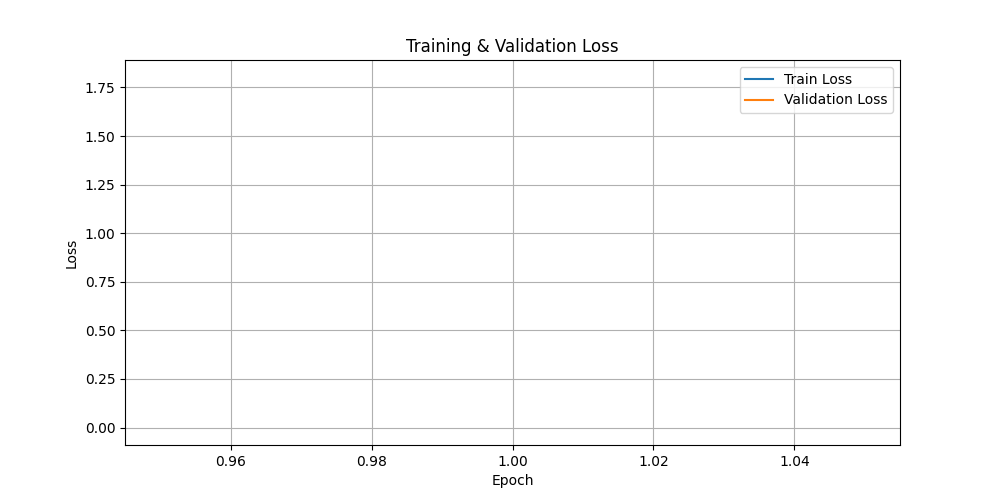
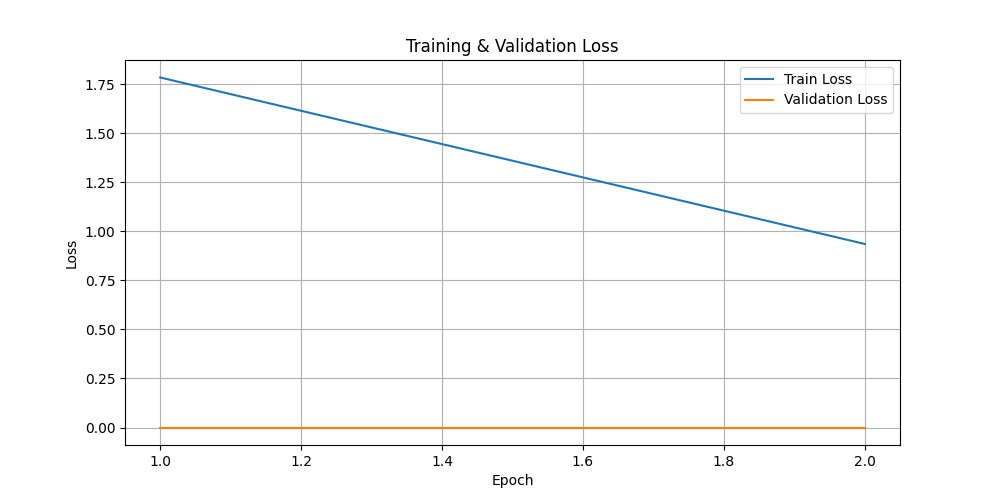
made epoch axis to be natural numbers only

diff --git a/src/utils/plotting.py b/src/utils/plotting.py
@@ -79,13 +79,16 @@ def plot_metrics_table(df_metrics: pd.DataFrame):
 def plot_training_curves(train_losses, val_losses, train_accs, val_accs):
     os.makedirs(config.REPORTS_DIR, exist_ok=True)
 
+    epochs = list(range(1, len(train_losses) + 1))
+
     # Loss
     plt.figure(figsize=(10, 5))
-    plt.plot(range(1, len(train_losses) + 1), train_losses, label="Train Loss")
-    plt.plot(range(1, len(val_losses) + 1), val_losses, label="Validation Loss")
+    plt.plot(epochs, train_losses, label="Train Loss")
+    plt.plot(epochs, val_losses, label="Validation Loss")
     plt.xlabel("Epoch")
     plt.ylabel("Loss")
     plt.title("Training & Validation Loss")
+    plt.xticks(epochs)  # set x-axis ticks as natural numbers
     plt.legend()
     plt.grid(True)
     plt.savefig(os.path.join(config.REPORTS_DIR, "loss_curve.png"))
@@ -93,11 +96,12 @@ def plot_training_curves(train_losses, val_losses, train_accs, val_accs):
 
     # Accuracy
     plt.figure(figsize=(10, 5))
-    plt.plot(range(1, len(train_accs) + 1), train_accs, label="Train Accuracy")
-    plt.plot(range(1, len(val_accs) + 1), val_accs, label="Validation Accuracy")
+    plt.plot(epochs, train_accs, label="Train Accuracy")
+    plt.plot(epochs, val_accs, label="Validation Accuracy")
     plt.xlabel("Epoch")
     plt.ylabel("Accuracy (%)")
     plt.title("Training & Validation Accuracy")
+    plt.xticks(epochs)  # set x-axis ticks as natural numbers
     plt.legend()
     plt.grid(True)
     plt.savefig(os.path.join(config.REPORTS_DIR, "accuracy_curve.png"))
